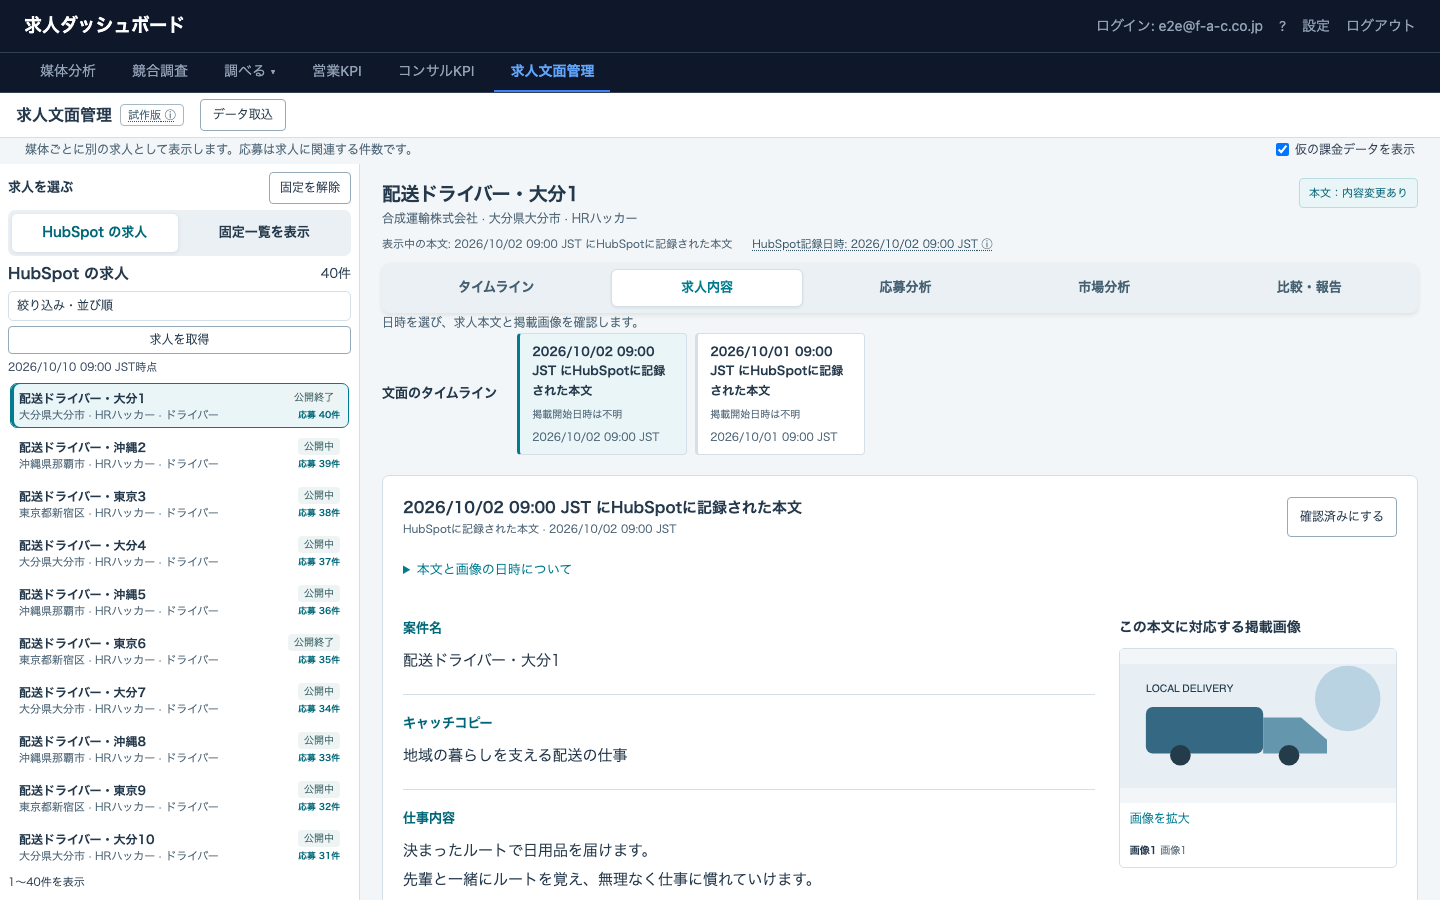
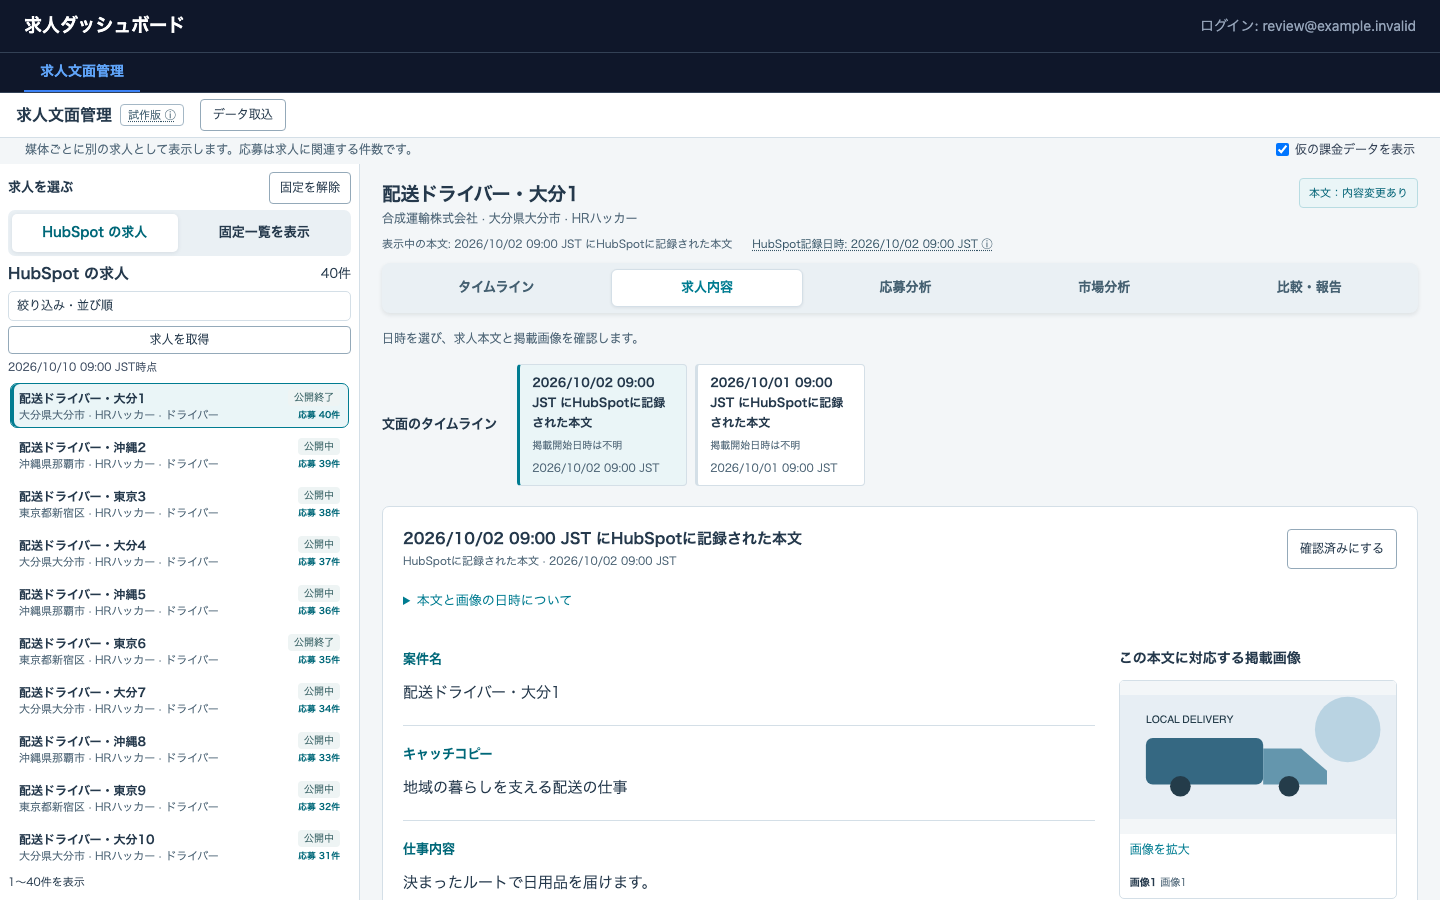
固定一覧のカードを2行にまとめ36件で表示枚数を検証する

diff --git a/frontend/src/screens/job-copy/JobCopyScreen.tsx b/frontend/src/screens/job-copy/JobCopyScreen.tsx
@@ -192,7 +192,7 @@ function CopyDetail({ job, records, onAdd, onDraftSaved, reviewed, onReview, bil
         {job.id.startsWith('hubspot-history-') ? <div className="jc-copy-content"><JobCopyBody body={version.body} sections={version.bodySections} /><div>{versionImages(version) === undefined && job.currentImageObservation ? <><ImageGallery title="現在取得できる掲載画像" images={job.currentImageObservation.images} /><p className="jc-muted">画像を確認した日時：{date(job.currentImageObservation.observedAt)}。この本文が記録された時点の画像は不明です。</p></> : <ImageGallery title="この本文に対応する掲載画像" images={versionImages(version)} />}</div></div> : <><ImageGallery title="この本文に対応する掲載画像" images={versionImages(version)} /><div className="jc-full-copy-heading"><h3>{version.source === HUBSPOT_BODY_SOURCE ? '仕事内容（HubSpotの現在値）' : '求人票の本文（全文）'}</h3><span>読み取り専用 · 原文の段落・改行を保持</span></div><pre className="jc-body">{version.body}</pre></>}
         {job.hubspotUrl && <a href={job.hubspotUrl} target="_blank" rel="noreferrer">HubSpotで求人レコードを開く</a>}
         {version.kind === 'received' ? <p className="jc-notice">応募情報は未取得です。0件とは判定していません。</p> : <ApplicationSummary job={job} version={version} live={job.dataSource === 'hubspot'} />}
-        <button className="jc-text-button" onClick={() => { const index = job.versions.findIndex(item => item.id === version.id); setBefore(job.versions[index - 1]?.id ?? version.id); setAfter(version.id); openFeatureFromContent('diff'); }}>この版を前の版と比較する →</button>
+        <button className="jc-text-button" onClick={() => { const index = job.versions.findIndex(item => item.id === version.id); setBefore(job.versions[index - 1]?.id ?? version.id); setAfter(version.id); openFeatureFromContent('diff'); }}>この本文を前の本文と比較する →</button>
       </> : <div className="jc-empty"><h2>本文未取得</h2><p>{job.id.startsWith('hubspot-history-') ? 'この求人の文面の履歴はありません。本文は未取得です。' : '欠損を「変更なし」や「削除」と判断しません。'}</p>{job.id.startsWith('hubspot-history-') && <ImageGallery title="現在取得できる掲載画像" images={job.currentImageObservation?.images} />}<button className="jc-button" onClick={() => { openFeatureFromContent('receive'); }}>外部文面を確認する</button></div>}</section>
     </div></JobFeaturePanel>
     <JobFeaturePanel feature="diff" active={tab === 'diff'} prefix={tabPrefix}>{tab === 'diff' && <section className="jc-comparison">{job.draftHistoryMayBeIncomplete && <p className="jc-notice">過去の案はすべて取得できていない可能性があります。</p>}{comparedDraft && <><DraftReview key={`${comparedDraft.draft_id}-${comparedDraft.review_status}`} job={job} draft={comparedDraft} onSaved={onDraftSaved} /></>}<div className="jc-compare-controls"><label>比較元<select aria-label="比較元" value={before} onChange={event => { setBefore(event.target.value); }}><option value="">本文なし</option>{job.versions.map(item => <option key={item.id} value={item.id}>{item.label} · {item.kind === 'ai_draft' ? 'AI案' : plainWording(item.source)}</option>)}</select></label><span aria-hidden="true">→</span><label>比較先<select aria-label="比較先" value={after} onChange={event => { setAfter(event.target.value); }}><option value="">本文なし</option>{job.versions.map(item => <option key={item.id} value={item.id}>{item.label} · {item.kind === 'ai_draft' ? 'AI案' : plainWording(item.source)}</option>)}</select></label></div>
@@ -393,7 +393,7 @@ export function JobCopyScreen() {
       <div className="jc-filters"><label>媒体<select value={media} onChange={event => { setMedia(event.target.value); }}><option value="all">すべて</option>{[...new Set(records.map(job => job.media))].map(value => <option key={value}>{value}</option>)}</select></label><label>変更判定<select value={status} onChange={event => { setStatus(event.target.value); }}><option value="all">すべて</option>{Object.entries(statusLabels).map(([value, label]) => <option key={value} value={value}>{label}</option>)}</select></label></div>
       <label>並び順<select aria-label="並び順" value={listOrder} onChange={event => { setListOrder(event.target.value === 'applications' ? 'applications' : 'source'); }}><option value="source">取得順</option><option value="applications">応募数が多い順</option></select></label></div></details>
       {filtersActive && <button type="button" className="jc-button jc-filter-reset" onClick={resetFilters}>検索条件をリセット</button>}
-      <div className="jc-list-scroll">{visible.map(job => <button className="jc-job" key={job.id} aria-pressed={selected?.id === job.id} onClick={() => { choose(job); }}><span className="jc-job-company">{job.company}</span><strong>{job.title}</strong><span>{joinPresent([job.location, job.media])}</span><span className="jc-job-bottom"><small>{published(job).length}版{job.versions.some(version => version.kind === 'ai_draft') ? ' + AI案' : ''}</small><small>{statusLabels[changeStatus(job)]}</small></span><small>{applicationCountLabel(job)}</small></button>)}{!visible.length && <div className="jc-empty"><p>{snapshotLoading ? '求人一覧を取得中です。' : records.length ? '一致する求人はありません。' : '表示できる求人がありません。'}</p></div>}</div>
+      <div className="jc-list-scroll">{visible.map(job => <button className="jc-job" key={job.id} aria-pressed={selected?.id === job.id} onClick={() => { choose(job); }}><strong title={job.title}>{job.title}</strong><small className="jc-fixed-applications">{applicationCountLabel(job)}</small><span className="jc-job-location" title={joinPresent([job.company, job.location, job.media])}>{joinPresent([job.company, job.location, job.media])}</span><span className="jc-job-bottom"><small>本文 {published(job).length}件{job.versions.some(version => version.kind === 'ai_draft') ? ' + AI案' : ''}</small><small>{statusLabels[changeStatus(job)]}</small></span></button>)}{!visible.length && <div className="jc-empty"><p>{snapshotLoading ? '求人一覧を取得中です。' : records.length ? '一致する求人はありません。' : '表示できる求人がありません。'}</p></div>}</div>
     </div></JobCopySidebar><div className="jc-main">{listingSource === 'hubspot' && <button type="button" className="jc-button jc-mobile-back" onClick={() => { setMobileListingView('list'); }}>一覧に戻る</button>}{listingSource === 'hubspot' && listingDetail !== 'ready' ? <main className="jc-detail jc-detail-placeholder" id="job-details" tabIndex={-1}><span className="jc-placeholder-icon" aria-hidden="true">▤</span><h1>{listingDetail === 'loading' ? '求人票を取得しています' : listingDetail === 'error' ? '求人票を取得できませんでした' : '求人を選んで内容を確認'}</h1><p role={listingDetail === 'error' ? 'alert' : 'status'}>{listingDetail === 'loading' ? '本文・画像・文面の履歴を確認しています。' : listingDetail === 'error' ? listingFailure : '一覧から求人を選ぶと、本文と取得できた画像をここに表示します。'}</p></main> : <>{reverseOpen && <ReverseSearch records={records} onClose={() => { setReverseOpen(false); document.querySelector<HTMLButtonElement>('.jc-reverse-toggle')?.focus(); }} onChoose={job => { setSearch(''); setMedia('all'); setCustomer('all'); setStatus('all'); setReverseOpen(false); setView('list'); choose(job); }} />}{view === 'overview' && records.length > 0 ? <JobOverview records={visible} billing={billingByJob} showDummyBilling={showDummyBilling} onChoose={job => { setView('list'); choose(job); }} /> : selected ? <CopyDetail key={`${selected.id}-${selected.versions[0]?.id ?? ''}`} job={selected} records={records} billing={billingByJob[selected.id]} showDummyBilling={showDummyBilling} demo={demoMode} request={featureRequest} onDraftSaved={(draft, revision) => { setRecords(items => items.map(item => item.id === selected.id ? { ...item, draftRevision: revision, versions: item.versions.map((version, index) => version.draft?.draft_id === draft.draft_id ? draftVersion(draft, item.versions.slice(0, index).filter(v => v.draft).length) : version) } : item)); }} reviewed={reviewed} onReview={id => { setReviewed(items => items.includes(id) ? items.filter(item => item !== id) : [...items, id]); }} onAdd={version => { setRecords(items => items.map(job => job.id === selected.id ? { ...job, versions: [...job.versions, version] } : job)); }} /> : <main className="jc-detail jc-empty"><h1>{snapshotLoading ? '求人データを取得しています' : records.length ? '一致する求人はありません' : '表示できる求人がありません'}</h1><p>{snapshotLoading ? '取得完了後に本文と応募集計を表示します。' : records.length ? '検索・取引先・媒体・変更判定の条件を見直すか、一覧の「検索条件をリセット」を押してください。' : 'データの取得状況と、画面上部の案内を確認してください。'}</p></main>}</>}</div></div>
   </div></MarketCacheContext.Provider>;
 }

diff --git a/frontend/src/screens/jobgen/DraftSavePanel.test.tsx b/frontend/src/screens/jobgen/DraftSavePanel.test.tsx
@@ -17,8 +17,8 @@ it('explicitly selects a job and saves all 84 values and facts, retaining source
     return Promise.resolve(new Response(JSON.stringify(value),{status:200,headers:{'Content-Type':'application/json'}}));
   }); vi.stubGlobal('fetch',fetchMock);
   const state = { ...initialState(), kind:'pdf' as const, sourceKind:'csv' as const, hrhackerCreatedAt:'2026-10-10T00:00:00Z', sourceText:fixtures.source_text, rawSourceText:'職種,給与\r\n配送,270000　', facts:fixtures.responses.extract.facts, hrhacker:{...fixtures.responses.hrhacker,row:draftFixture().row}, status:{...initialState().status,hrhacker:'review' as const} };
-  render(<DraftSavePanel s={state} />); expect(fetchMock).not.toHaveBeenCalled(); fireEvent.click(screen.getByRole('button',{name:'保存先の求人を選ぶ'})); await waitFor(() => { expect(screen.getByRole('button',{name:'架空配送スタッフの版を見る'})).toBeTruthy(); });
-  expect(bodies).toHaveLength(0); fireEvent.click(screen.getByRole('button',{name:'架空配送スタッフの版を見る'})); await waitFor(() => { expect(screen.getByRole('button',{name:'この求人に案を保存'})).toBeTruthy(); }); fireEvent.click(screen.getByRole('button',{name:'この求人に案を保存'}));
+  render(<DraftSavePanel s={state} />); expect(fetchMock).not.toHaveBeenCalled(); fireEvent.click(screen.getByRole('button',{name:'保存先の求人を選ぶ'})); await waitFor(() => { expect(screen.getByRole('button',{name:'架空配送スタッフの本文を見る'})).toBeTruthy(); });
+  expect(bodies).toHaveLength(0); fireEvent.click(screen.getByRole('button',{name:'架空配送スタッフの本文を見る'})); await waitFor(() => { expect(screen.getByRole('button',{name:'この求人に案を保存'})).toBeTruthy(); }); fireEvent.click(screen.getByRole('button',{name:'この求人に案を保存'}));
   await waitFor(() => { expect(screen.getByRole('link',{name:'求人文面管理で今の版と案を比べる'})).toBeTruthy(); });
   expect(bodies).toHaveLength(1); expect(bodies[0]).toMatchObject({base_revision:'a'.repeat(64),source_kind:'csv',original_source_text:'職種,給与\r\n配送,270000　',created_at:'2026-10-10T00:00:00Z',row:{'基本給与 最小':'270000','基本給与 最大':'300000'},source_text:fixtures.source_text,facts:fixtures.responses.extract.facts}); expect(Object.keys((bodies[0] as {row:Record<string,string>}).row)).toHaveLength(84);
 });
@@ -36,8 +36,8 @@ it.each<[string, Partial<PipelineState>]>([
   const state: PipelineState = { ...initialState(), sourceText: fixtures.source_text, sourceKind: 'csv', hrhackerCreatedAt: '2026-10-10T00:00:00Z', facts: fixtures.responses.extract.facts, hrhacker: fixtures.responses.hrhacker, status: { ...initialState().status, hrhacker: 'done' } };
   const { rerender } = render(<DraftSavePanel s={state} />);
   fireEvent.click(screen.getByRole('button', { name: '保存先の求人を選ぶ' }));
-  await waitFor(() => { expect(screen.getByRole('button', { name: '架空配送スタッフの版を見る' })).toBeTruthy(); });
-  fireEvent.click(screen.getByRole('button', { name: '架空配送スタッフの版を見る' }));
+  await waitFor(() => { expect(screen.getByRole('button', { name: '架空配送スタッフの本文を見る' })).toBeTruthy(); });
+  fireEvent.click(screen.getByRole('button', { name: '架空配送スタッフの本文を見る' }));
   await waitFor(() => { expect(screen.getByRole('button', { name: 'この求人に案を保存' }).hasAttribute('disabled')).toBe(false); });
   rerender(<DraftSavePanel s={{ ...state, ...invalid }} />);
   const save = screen.getByRole('button', { name: 'この求人に案を保存' });

diff --git a/tests/e2e/job_copy_navigation.spec.ts b/tests/e2e/job_copy_navigation.spec.ts
@@ -65,7 +65,7 @@ test('the first view shows the full-height list beside the timeline, tabs stay o
   });
   expect(inactiveTabContrast).toBeGreaterThanOrEqual(4.5);
   await selectJobFeature(page, 'body');
-  const jump = page.getByRole('button', { name: 'この版を前の版と比較する →', exact: true });
+  const jump = page.getByRole('button', { name: 'この本文を前の本文と比較する →', exact: true });
   await jump.scrollIntoViewIfNeeded();
   // The group tabs stay at the top of the detail while the long body scrolls.
   await expect(primary).toBeInViewport();
@@ -165,7 +165,7 @@ test('functional tabs isolate applicants, reasons, application trends, market gr
 test('tab keyboard Arrow/Home/End movement activates valid linked panels and inactive controls stay hidden', async ({ page }) => {
   await setup(page, true);
   const primary = page.getByRole('tablist', { name: '求人管理の機能', exact: true });
-  const jump = page.getByRole('button', { name: 'この版を前の版と比較する →', exact: true });
+  const jump = page.getByRole('button', { name: 'この本文を前の本文と比較する →', exact: true });
   await jump.scrollIntoViewIfNeeded();
   // Sticky group tabs (2026-10-08): still on screen after scrolling the long body.
   await expect(primary).toBeInViewport();

diff --git a/frontend/src/screens/job-copy/job-copy.css b/frontend/src/screens/job-copy/job-copy.css
@@ -357,3 +357,11 @@
 .jc-column-comparison del { background: #f2a3a3; }
 
 .jc-draft-source { margin-top: 12px; }
+
+/* 固定一覧も会社名・勤務地を含めて2行に収める。全文は詳細と補助表示で確認できる。 */
+@media (min-width: 801px) {
+  .jc-fixed-list .jc-job { display: grid; grid-template-columns: minmax(0, 1fr) auto; align-items: center; gap: 0 5px; }
+  .jc-fixed-list .jc-job-bottom { margin-top: 0; font-size: 10px; line-height: 15px; }
+  .jc-fixed-applications { text-align: right; white-space: nowrap; }
+  .jc-fixed-list > :not(.jc-list-scroll) { flex-shrink: 0; }
+}

diff --git a/docs/architecture/job-copy-ui-polish.md b/docs/architecture/job-copy-ui-polish.md
@@ -25,3 +25,10 @@
 - 環境変数整合テストは従来 `var_os` を拾わず、求人文面管理の既存の読み取り設定を未使用と誤判定していた。読み取り検査を補い、既存のローカル検証用変数を `.env.example` のコメントで説明した。設定や運用は変更しない。
 
 PR #137 は未マージのため取り込まない。mainの最新を確認し、一覧・詳細・CSSの変更箇所は小さく保つ。新しい求人本文の保存・生成・外部送信は追加しない。
+
+## レビュー指摘への追加修正
+
+- 初回の件数検証がHubSpot一覧に偏り、会社名・勤務地を含む固定一覧のカードの高さを検証できていなかった。固定一覧も2行にし、会社名・勤務地・媒体を同じ行で表示する。長い文字列は省略表示し、補助表示と詳細で全文を確認できる。
+- 合成の36求人を追加し、1440×900・1440×690・1920×900の固定／マウス展開、選択前後でカードが5枚以上完全に見えることと、一覧をスクロールしても絞り込みが動かないことを数で確認する。修正前の1440×900で同じ検証が失敗することも確認した。
+- カードの「1版」を「本文 1件」に、比較ボタンを「この本文を前の本文と比較する」に変更する。最新mainの求人票作成の案保存と両立し、共通一覧の呼び名を参照する既存テストも更新する。
+- マージ済みPR #137を取り込み、初期表示・折りたたみ・会社名・日時の改善と、案保存・履歴・比較の連携を維持して競合を解消した。本番・HubSpotへの書き込みや実際のLLM呼び出しは行わない。
